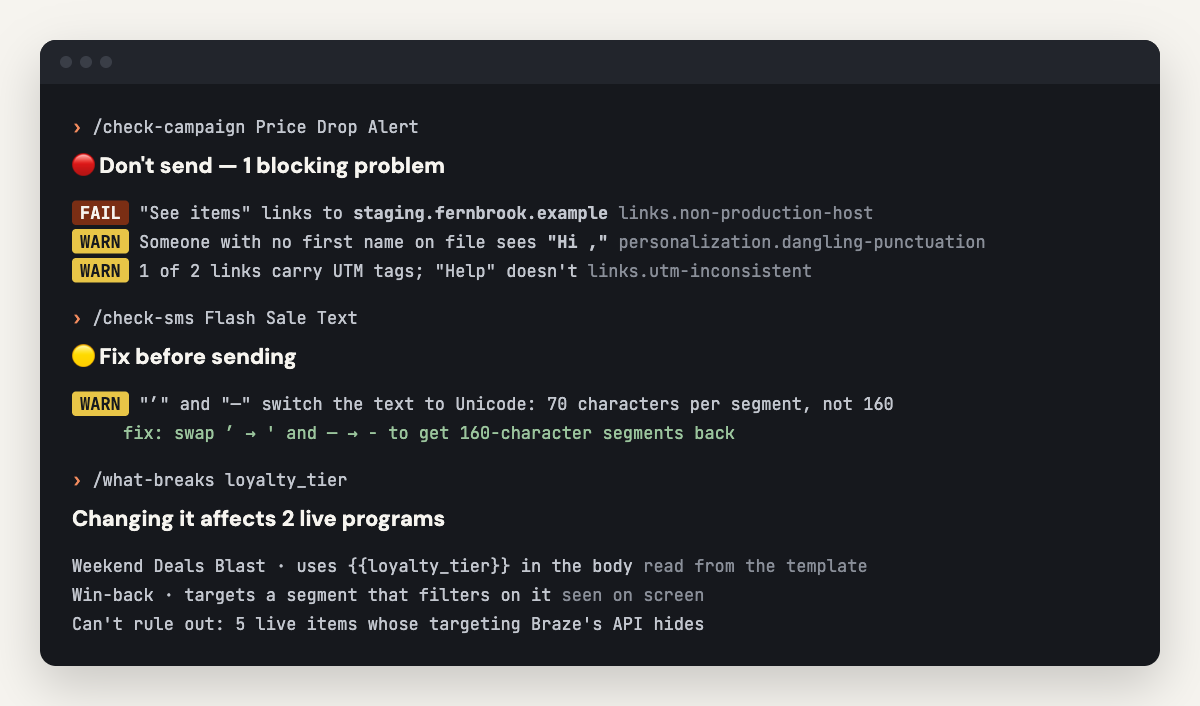
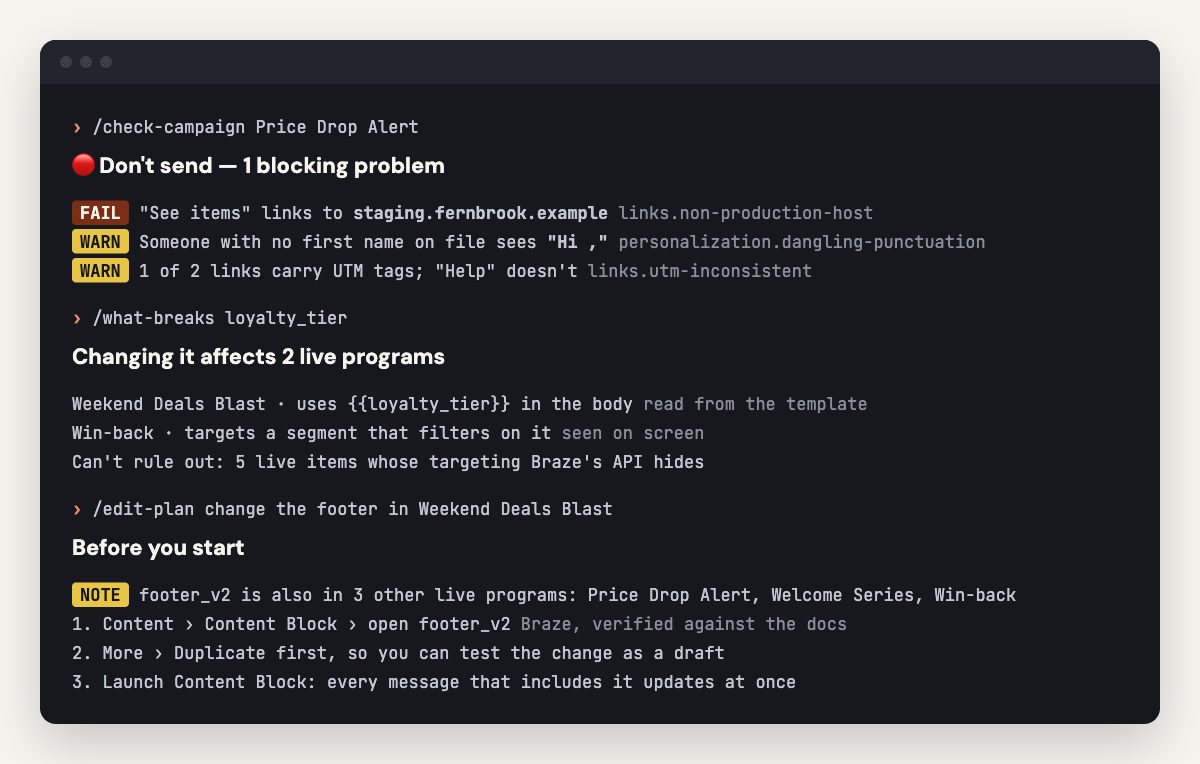
docs: reposition as the AI copilot for lifecycle operations, not just QA
Category, four pillars (plan and build faster, change safely, send with confidence,
prove the impact), README and command table organized by pillar, demo image and
social card showing build/edit guidance and impact mapping alongside checks.

diff --git a/README.md b/README.md
@@ -1,49 +1,58 @@
 # crm-lifecycle-ops
 
-**An AI copilot for lifecycle & CRM marketing operations on Braze, Klaviyo and Iterable.**
-QA every email, push, SMS and in-app message before it sends, see what breaks before you change
-something, and get step-by-step build and edit instructions written for your platform. A Claude Code
-plugin with an MCP server; read-only by design.
+**The AI copilot for lifecycle and CRM operations on Braze, Klaviyo and Iterable.**
+Plan, build, check and change campaigns faster, without breaking what's live. It's a Claude Code plugin,
+read-only by design: it never sends or edits anything.
 
 [![CI](https://github.com/har5h98/crm-lifecycle-ops/actions/workflows/ci.yml/badge.svg)](https://github.com/har5h98/crm-lifecycle-ops/actions/workflows/ci.yml)
 [![Release](https://img.shields.io/github/v/release/har5h98/crm-lifecycle-ops)](https://github.com/har5h98/crm-lifecycle-ops/releases)
 ![Status: early alpha](https://img.shields.io/badge/status-early%20alpha-orange)
 ![License: MIT](https://img.shields.io/badge/license-MIT-blue)
 
-<p align="center"><img src="https://raw.githubusercontent.com/har5h98/crm-lifecycle-ops/main/docs/demo.png" alt="Terminal showing /check-campaign flagging a staging link and a blank first name, /check-sms flagging curly quotes that double SMS cost, and /what-breaks listing live programs that use loyalty_tier" width="820"></p>
+<p align="center"><img src="https://raw.githubusercontent.com/har5h98/crm-lifecycle-ops/main/docs/demo.png" alt="Terminal showing /check-campaign flagging a staging link and a blank first name, /what-breaks listing live programs that use loyalty_tier, and /edit-plan warning that a footer block is shared by three other live programs before giving Braze steps" width="820"></p>
 
-**Built for** campaign operators, lifecycle and CRM marketers, and marketing-ops teams who build and
-QA campaigns by hand. **Try it in 2 minutes** with the built-in demo account; no platform access needed.
+Lifecycle teams lose hours to work that lives in people's heads: how to build this in our platform, what this
+segment feeds, whether this message looks right for someone with no first name. crm-lifecycle-ops knows your live
+account and your team's rules, and helps at every step of an operator's job:
 
-> **Status: early alpha.** Every command below exists. ✅ means it works fully today. 🧪 means it works
-> on the built-in demo account and against mocked Braze/Klaviyo/Iterable API responses, but hasn't been
-> field-tested on real accounts yet. If you run it on yours and something's off, `/report-problem`
-> turns it into a test case and a fix.
+| | What you get | Commands |
+|---|---|---|
+| **Plan and build faster** | Design journeys that don't collide with what's live, and get click-by-click build steps in *your* platform's terms, with your naming, UTMs and reusable segments | `/plan-journey` · `/build-plan` · `/bulk-edit` |
+| **Change safely** | Before you edit an attribute, segment, content block or live journey: what depends on it, what changed overnight, and the safe way to make the change | `/what-breaks` · `/what-changed` · `/edit-plan` · `/show-journey` |
+| **Send with confidence** | Every email, push, SMS, in-app, content card and webhook checked as every kind of customer, against your team's rules | `/check-campaign` · `/check-email` · `/check-push` · `/check-sms` · `/check-in-app` |
+| **Prove the impact** | Delivery health after launch, plus problems caught and hours saved, for you or the whole team | `/watch-launch` · `/ops-report` |
 
-## Commands
+**Built for** lifecycle, CRM and marketing-ops teams who build campaigns by hand. **Try it in 2 minutes** with the
+built-in demo account; no platform access needed.
 
-| Stage | Command | What it does | Status |
+> **Status: early alpha.** ✅ works fully today. 🧪 works on the built-in demo account and against mocked
+> Braze/Klaviyo/Iterable API responses, but hasn't been field-tested on real accounts yet. If something's off,
+> `/report-problem` turns it into a test case and a fix.
+
+## All commands
+
+| | Command | What it does | Status |
 |---|---|---|---|
-| Start | `/start-here` | Overview and the best first step | ✅ |
-| Start | `/setup` | Teach it your team's rules: language, brand, links, footer, senders, test personas, strictness | ✅ |
-| Start | `/house-rules` | View or change those rules; mark a finding "fine for us" | ✅ |
-| Setup | `/connect` | Connect Braze, Klaviyo or Iterable with a read-only key | 🧪 |
-| Setup | `/refresh` | Pull the latest campaigns, journeys, segments, templates and content blocks (or load the demo) | 🧪 |
-| QA | `/check-email` | Full QA on one email: HTML, links, unsubscribe, UTMs, personalization for several test profiles, house rules | ✅ |
-| QA | `/check-push` | Push QA: lock-screen length for your longest names, deep links, personalization blanks | ✅ |
-| QA | `/check-sms` | SMS QA: billed segments and Unicode traps, opt-out wording, sender name, links | ✅ |
-| QA | `/check-in-app` | In-app QA: length, buttons and their links, HTML structure | ✅ |
-| QA | `/check-campaign` | QA a whole campaign or journey: every message on every channel (content blocks expanded), settings and structure | 🧪 |
-| Impact | `/what-breaks` | "If I change or delete this attribute, segment, block, event or link, what live things are affected?" | 🧪 |
-| Impact | `/what-changed` | What changed in the account since last time, live items first | 🧪 |
-| Plan | `/plan-journey` | Design a journey and check it for overlap with what's already live | 🧪 |
-| Plan | `/show-journey` | Draw a live journey as a diagram, with structural problems flagged | 🧪 |
-| Build | `/build-plan` | Step-by-step build instructions in your platform\'s own terms, filled in with your house rules and reusable assets | 🧪 |
-| Build | `/edit-plan` | How to safely change something that exists (live copy, running journeys, shared blocks, audiences), and what else it affects | 🧪 |
-| Build | `/bulk-edit` | Find-and-replace preview across every subject, body and content block | 🧪 |
-| Launch | `/watch-launch` | Bounce, unsubscribe, spam and delivery rates against stated thresholds | 🧪 |
-| Report | `/ops-report` | Messages checked, problems caught, hours saved, for you or the whole team | ✅ |
-| Feedback | `/report-problem` | Report a wrong result; it becomes a test case and gets fixed | ✅ |
+| **Get started** | `/start-here` | Overview and the best first step | ✅ |
+| | `/setup` | Teach it your team's rules: language, brand, links, footer, senders, test customers, strictness | ✅ |
+| | `/house-rules` | View or change those rules; mark a finding "fine for us" | ✅ |
+| | `/connect` | Connect Braze, Klaviyo or Iterable with a read-only key | 🧪 |
+| | `/refresh` | Pull the latest campaigns, journeys, segments, templates and content blocks (or load the demo) | 🧪 |
+| **Plan and build** | `/plan-journey` | Design a journey and check it for overlap with what's already live | 🧪 |
+| | `/build-plan` | Step-by-step build instructions in your platform's own terms, with your rules and reusable assets | 🧪 |
+| | `/bulk-edit` | Preview a find-and-replace across every subject, body and content block | 🧪 |
+| **Change safely** | `/what-breaks` | What's affected if you change or delete an attribute, segment, block, event or link | 🧪 |
+| | `/what-changed` | What changed in the account since last time, live items first | 🧪 |
+| | `/edit-plan` | The safe way to change something live (copy, running journeys, shared blocks, audiences) | 🧪 |
+| | `/show-journey` | Draw a live journey as a diagram, with structural problems flagged | 🧪 |
+| **Send with confidence** | `/check-campaign` | Check a whole campaign or journey: every message on every channel, settings and structure | 🧪 |
+| | `/check-email` | One email: HTML, links, unsubscribe, UTMs, personalization, house rules | ✅ |
+| | `/check-push` | One push: lock-screen length for your longest names, deep links, blanks | ✅ |
+| | `/check-sms` | One text: billed segments, Unicode traps, opt-out wording, sender name | ✅ |
+| | `/check-in-app` | One in-app message or content card: length, buttons, links | ✅ |
+| **Prove the impact** | `/watch-launch` | Bounce, unsubscribe, spam and delivery rates against stated thresholds | 🧪 |
+| | `/ops-report` | Messages checked, problems caught, hours saved, for you or the whole team | ✅ |
+| | `/report-problem` | Report a wrong result; it becomes a test case and gets fixed | ✅ |
 
 ## Install
 
@@ -77,7 +86,7 @@ What's "wrong" depends on the team, so checks come in three layers:
 exception with a reason (`/house-rules`), which is different from "the tool is wrong" (`/report-problem`).
 Teams share one rulebook by pointing `CLO_RULES` at a shared file.
 
-## What gets checked
+## What "check" covers
 
 | Channel | Catches |
 |---|---|

diff --git a/skills/start-here/SKILL.md b/skills/start-here/SKILL.md
@@ -7,8 +7,10 @@ description: Overview of crm-lifecycle-ops. What each command does, what works t
 
 Explain briefly, in this order, then suggest one next step that fits what they're doing.
 
-**What it is:** tools for the people who plan, build, QA and run lifecycle/CRM programs on Braze,
-Klaviyo or Iterable. Read-only: it never sends anything and never edits the account.
+**What it is:** the AI copilot for lifecycle and CRM operations on Braze, Klaviyo or Iterable. It helps at
+every step of an operator's job: **plan and build faster**, **change safely** (know what a change breaks
+before you make it), **send with confidence** (every message checked as every kind of customer), and
+**prove the impact**. Read-only: it never sends anything and never edits the account.
 
 **Commands** (✅ works · 🧪 works on the demo account and mocked APIs, not yet field-tested on real
 accounts; keep this list in sync with the README):
